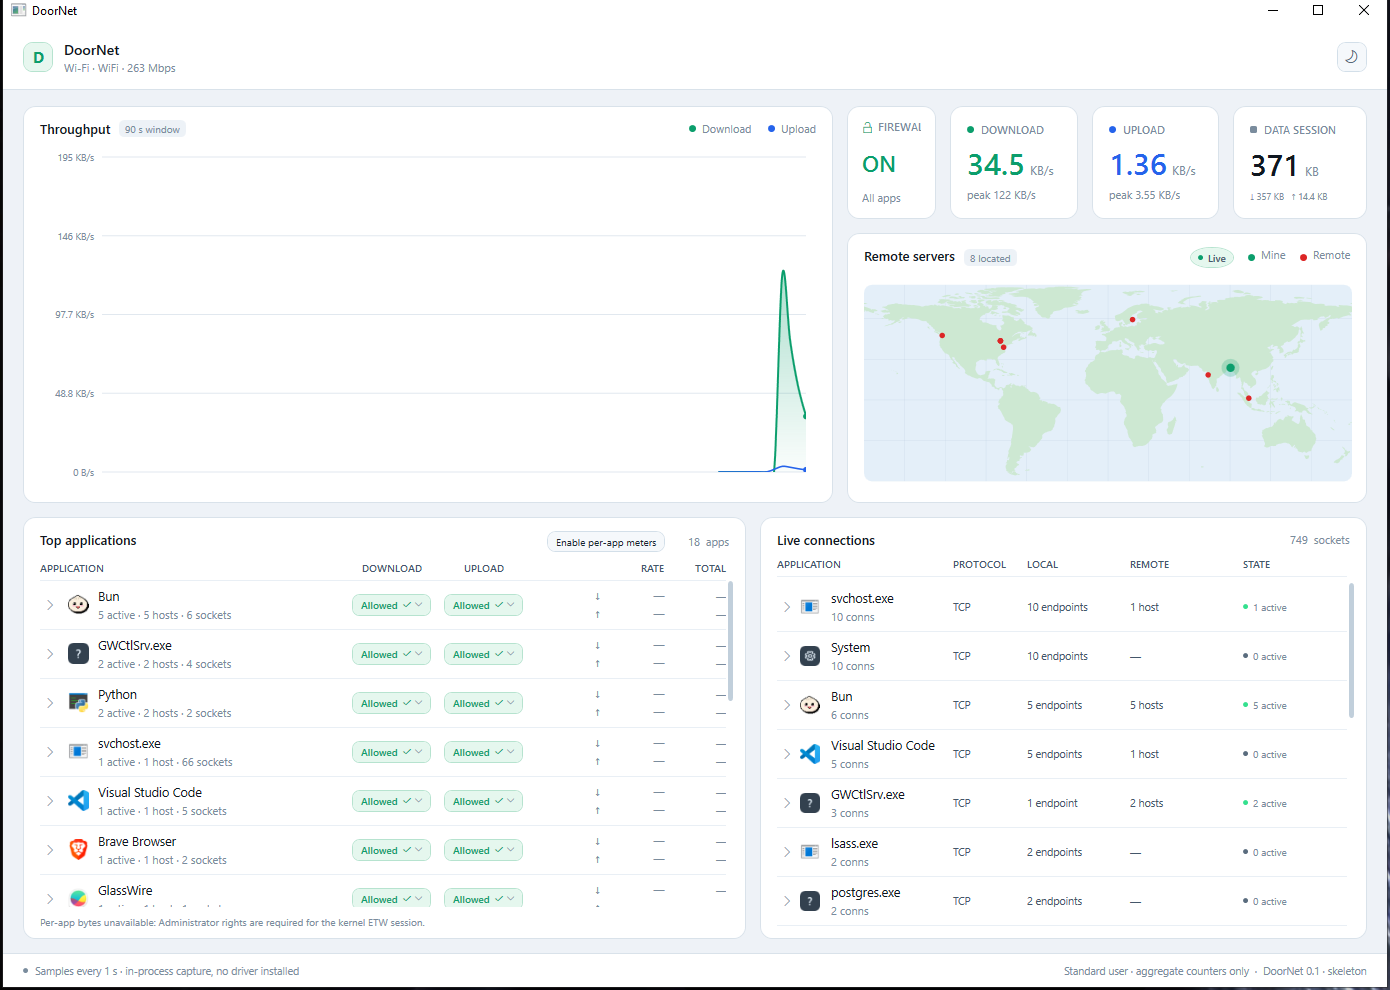
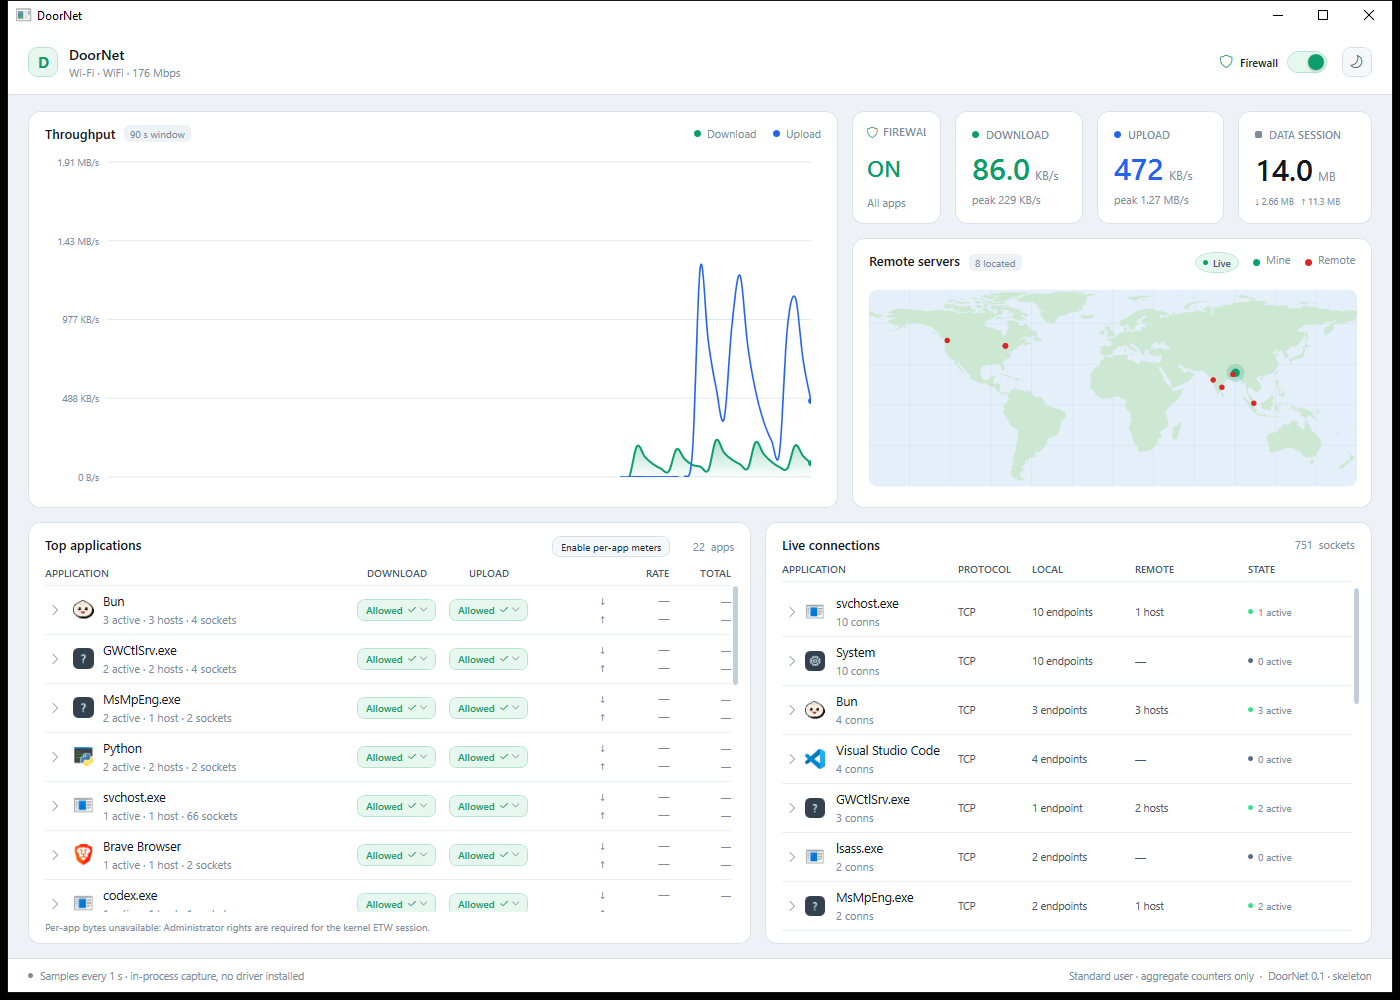
Add a disc-style firewall switch beside the theme toggle
The header now carries the master switch as a small disc toggle left of the theme button: a green track and green knob when the firewall is armed, red when suspended, with the shield icon turning green too. The whole label is the hit target and the tooltip explains the consequence. The status tile keeps showing ON/OFF at a glance. Both the header switch and the tile use the outline shield glyph instead of the old open-padlock glyph.

diff --git a/src/DoorNet.App/Styles/Controls.xaml b/src/DoorNet.App/Styles/Controls.xaml
@@ -88,6 +88,73 @@
         </Setter>
     </Style>
 
+
+    <!-- Header firewall switch: a disc that sits green when armed, red when suspended -->
+    <Style x:Key="FirewallSwitch" TargetType="Button">
+        <Setter Property="Cursor" Value="Hand" />
+        <Setter Property="FocusVisualStyle" Value="{x:Null}" />
+        <Setter Property="Padding" Value="7,3" />
+        <Setter Property="Template">
+            <Setter.Value>
+                <ControlTemplate TargetType="Button">
+                    <Border x:Name="Shell" Background="Transparent" CornerRadius="9" Padding="{TemplateBinding Padding}">
+                        <StackPanel Orientation="Horizontal" VerticalAlignment="Center">
+                            <TextBlock x:Name="Shield"
+                                       Text="&#xEA18;"
+                                       FontFamily="{StaticResource GlyphFont}"
+                                       FontSize="13"
+                                       Margin="0,0,7,0"
+                                       VerticalAlignment="Center"
+                                       Foreground="{DynamicResource TextMutedBrush}" />
+                            <TextBlock x:Name="Caption"
+                                       Text="Firewall"
+                                       FontSize="11"
+                                       FontWeight="SemiBold"
+                                       Margin="0,0,9,0"
+                                       VerticalAlignment="Center"
+                                       Foreground="{DynamicResource TextSecondaryBrush}" />
+                            <Border x:Name="Track"
+                                    Width="40"
+                                    Height="22"
+                                    CornerRadius="11"
+                                    BorderThickness="1"
+                                    SnapsToDevicePixels="True"
+                                    Background="{DynamicResource DangerSoftBrush}"
+                                    BorderBrush="{DynamicResource DangerSoftBorderBrush}">
+                                <Ellipse x:Name="Knob"
+                                         Width="16"
+                                         Height="16"
+                                         HorizontalAlignment="Left"
+                                         VerticalAlignment="Center"
+                                         Margin="2,0,2,0"
+                                         Fill="{DynamicResource DangerBrush}">
+                                    <Ellipse.Effect>
+                                        <DropShadowEffect BlurRadius="4" ShadowDepth="1" Direction="270" Opacity="0.28" Color="#000000" />
+                                    </Ellipse.Effect>
+                                </Ellipse>
+                            </Border>
+                        </StackPanel>
+                    </Border>
+                    <ControlTemplate.Triggers>
+                        <DataTrigger Binding="{Binding IsFirewallEnabled}" Value="True">
+                            <Setter TargetName="Track" Property="Background" Value="{DynamicResource SuccessSoftBrush}" />
+                            <Setter TargetName="Track" Property="BorderBrush" Value="{DynamicResource SuccessSoftBorderBrush}" />
+                            <Setter TargetName="Knob" Property="HorizontalAlignment" Value="Right" />
+                            <Setter TargetName="Knob" Property="Fill" Value="{DynamicResource DownloadBrush}" />
+                            <Setter TargetName="Shield" Property="Foreground" Value="{DynamicResource DownloadBrush}" />
+                            <Setter TargetName="Caption" Property="Foreground" Value="{DynamicResource TextPrimaryBrush}" />
+                        </DataTrigger>
+                        <Trigger Property="IsMouseOver" Value="True">
+                            <Setter TargetName="Shell" Property="Background" Value="{DynamicResource SubtlePillBrush}" />
+                        </Trigger>
+                        <Trigger Property="IsPressed" Value="True">
+                            <Setter TargetName="Shell" Property="Background" Value="{DynamicResource ButtonPressedBrush}" />
+                        </Trigger>
+                    </ControlTemplate.Triggers>
+                </ControlTemplate>
+            </Setter.Value>
+        </Setter>
+    </Style>
     <!-- Buttons -->
     <Style x:Key="GhostButton" TargetType="Button">
         <Setter Property="FontFamily" Value="{StaticResource UiFont}" />

diff --git a/src/DoorNet.App/MainWindow.xaml b/src/DoorNet.App/MainWindow.xaml
@@ -57,15 +57,22 @@
                     </StackPanel>
                 </StackPanel>
 
-                <!-- Theme toggle stays in the header: every tab needs it. -->
-                <Button Grid.Column="2"
-                        Style="{StaticResource IconButton}"
-                        Content="{Binding ThemeGlyph}"
-                        ToolTip="{Binding ThemeTooltip}"
-                        Command="{Binding ToggleThemeCommand}"
-                        AutomationProperties.AutomationId="ThemeToggle"
-                        AutomationProperties.Name="Switch theme"
-                        VerticalAlignment="Center" />
+                <StackPanel Grid.Column="2" Orientation="Horizontal" VerticalAlignment="Center">
+                    <Button Command="{Binding ToggleFirewallCommand}"
+                            Style="{StaticResource FirewallSwitch}"
+                            ToolTip="{Binding FirewallTooltip}"
+                            AutomationProperties.Name="Firewall master switch"
+                            Margin="0,0,8,0" />
+
+                    <!-- Theme toggle stays in the header: every tab needs it. -->
+                    <Button Style="{StaticResource IconButton}"
+                            Content="{Binding ThemeGlyph}"
+                            ToolTip="{Binding ThemeTooltip}"
+                            Command="{Binding ToggleThemeCommand}"
+                            AutomationProperties.AutomationId="ThemeToggle"
+                            AutomationProperties.Name="Switch theme"
+                            VerticalAlignment="Center" />
+                </StackPanel>
 
             </Grid>
         </Border>
@@ -149,7 +156,7 @@
                                 </Grid.RowDefinitions>
 
                                 <StackPanel Orientation="Horizontal">
-                                    <TextBlock Text="&#xE785;"
+                                    <TextBlock Text="&#xEA18;"
                                                FontFamily="{StaticResource GlyphFont}"
                                                FontSize="10.5"
                                                Margin="0,0,6,0"

diff --git a/docs/ARCHITECTURE.md b/docs/ARCHITECTURE.md
@@ -149,8 +149,9 @@ Dark, dense, instrument-panel feel — closer to Task Manager's Performance tab 
 consumer dashboard. No GlassWire visual language (its palette, iconography, layout and
 branding are not reused).
 
-- Header: product mark, adapter summary, and the theme toggle pinned to the far right so it
-  survives tab switches; the stretch between them is reserved for the navigation tabs.
+- Header: product mark, adapter summary, a disc-style firewall master switch and the theme
+  toggle pinned to the far right so they survive tab switches; the stretch between them is
+  reserved for the navigation tabs.
 - Status row: a clickable **FIREWALL** tile (ON/OFF master switch) followed by the download,
   upload and session-total tiles.
 - Map card: title row with an inline live/paused pill next to the legend, then the world map.

diff --git a/README.md b/README.md
@@ -105,7 +105,8 @@ Windows Firewall is stateful, so blocking **Out** also stops new downloads (the 
 never leave), while blocking **In** stops unsolicited incoming traffic — downloads the app
 initiated still return. Allow both directions to restore an app completely.
 
-The **FIREWALL** tile at the start of the status row carries the **master switch** - `ON` / `OFF`:
+The **disc switch** beside the theme button (header, top right) and the **FIREWALL** tile at the
+start of the status row both carry the **master switch** - green `ON`, red `OFF`:
 
 - **ON** arms every DoorNet rule; individual blocks take effect immediately.
 - **OFF** leaves the rules defined but *disabled* (`Enabled: No`), so all apps can connect
